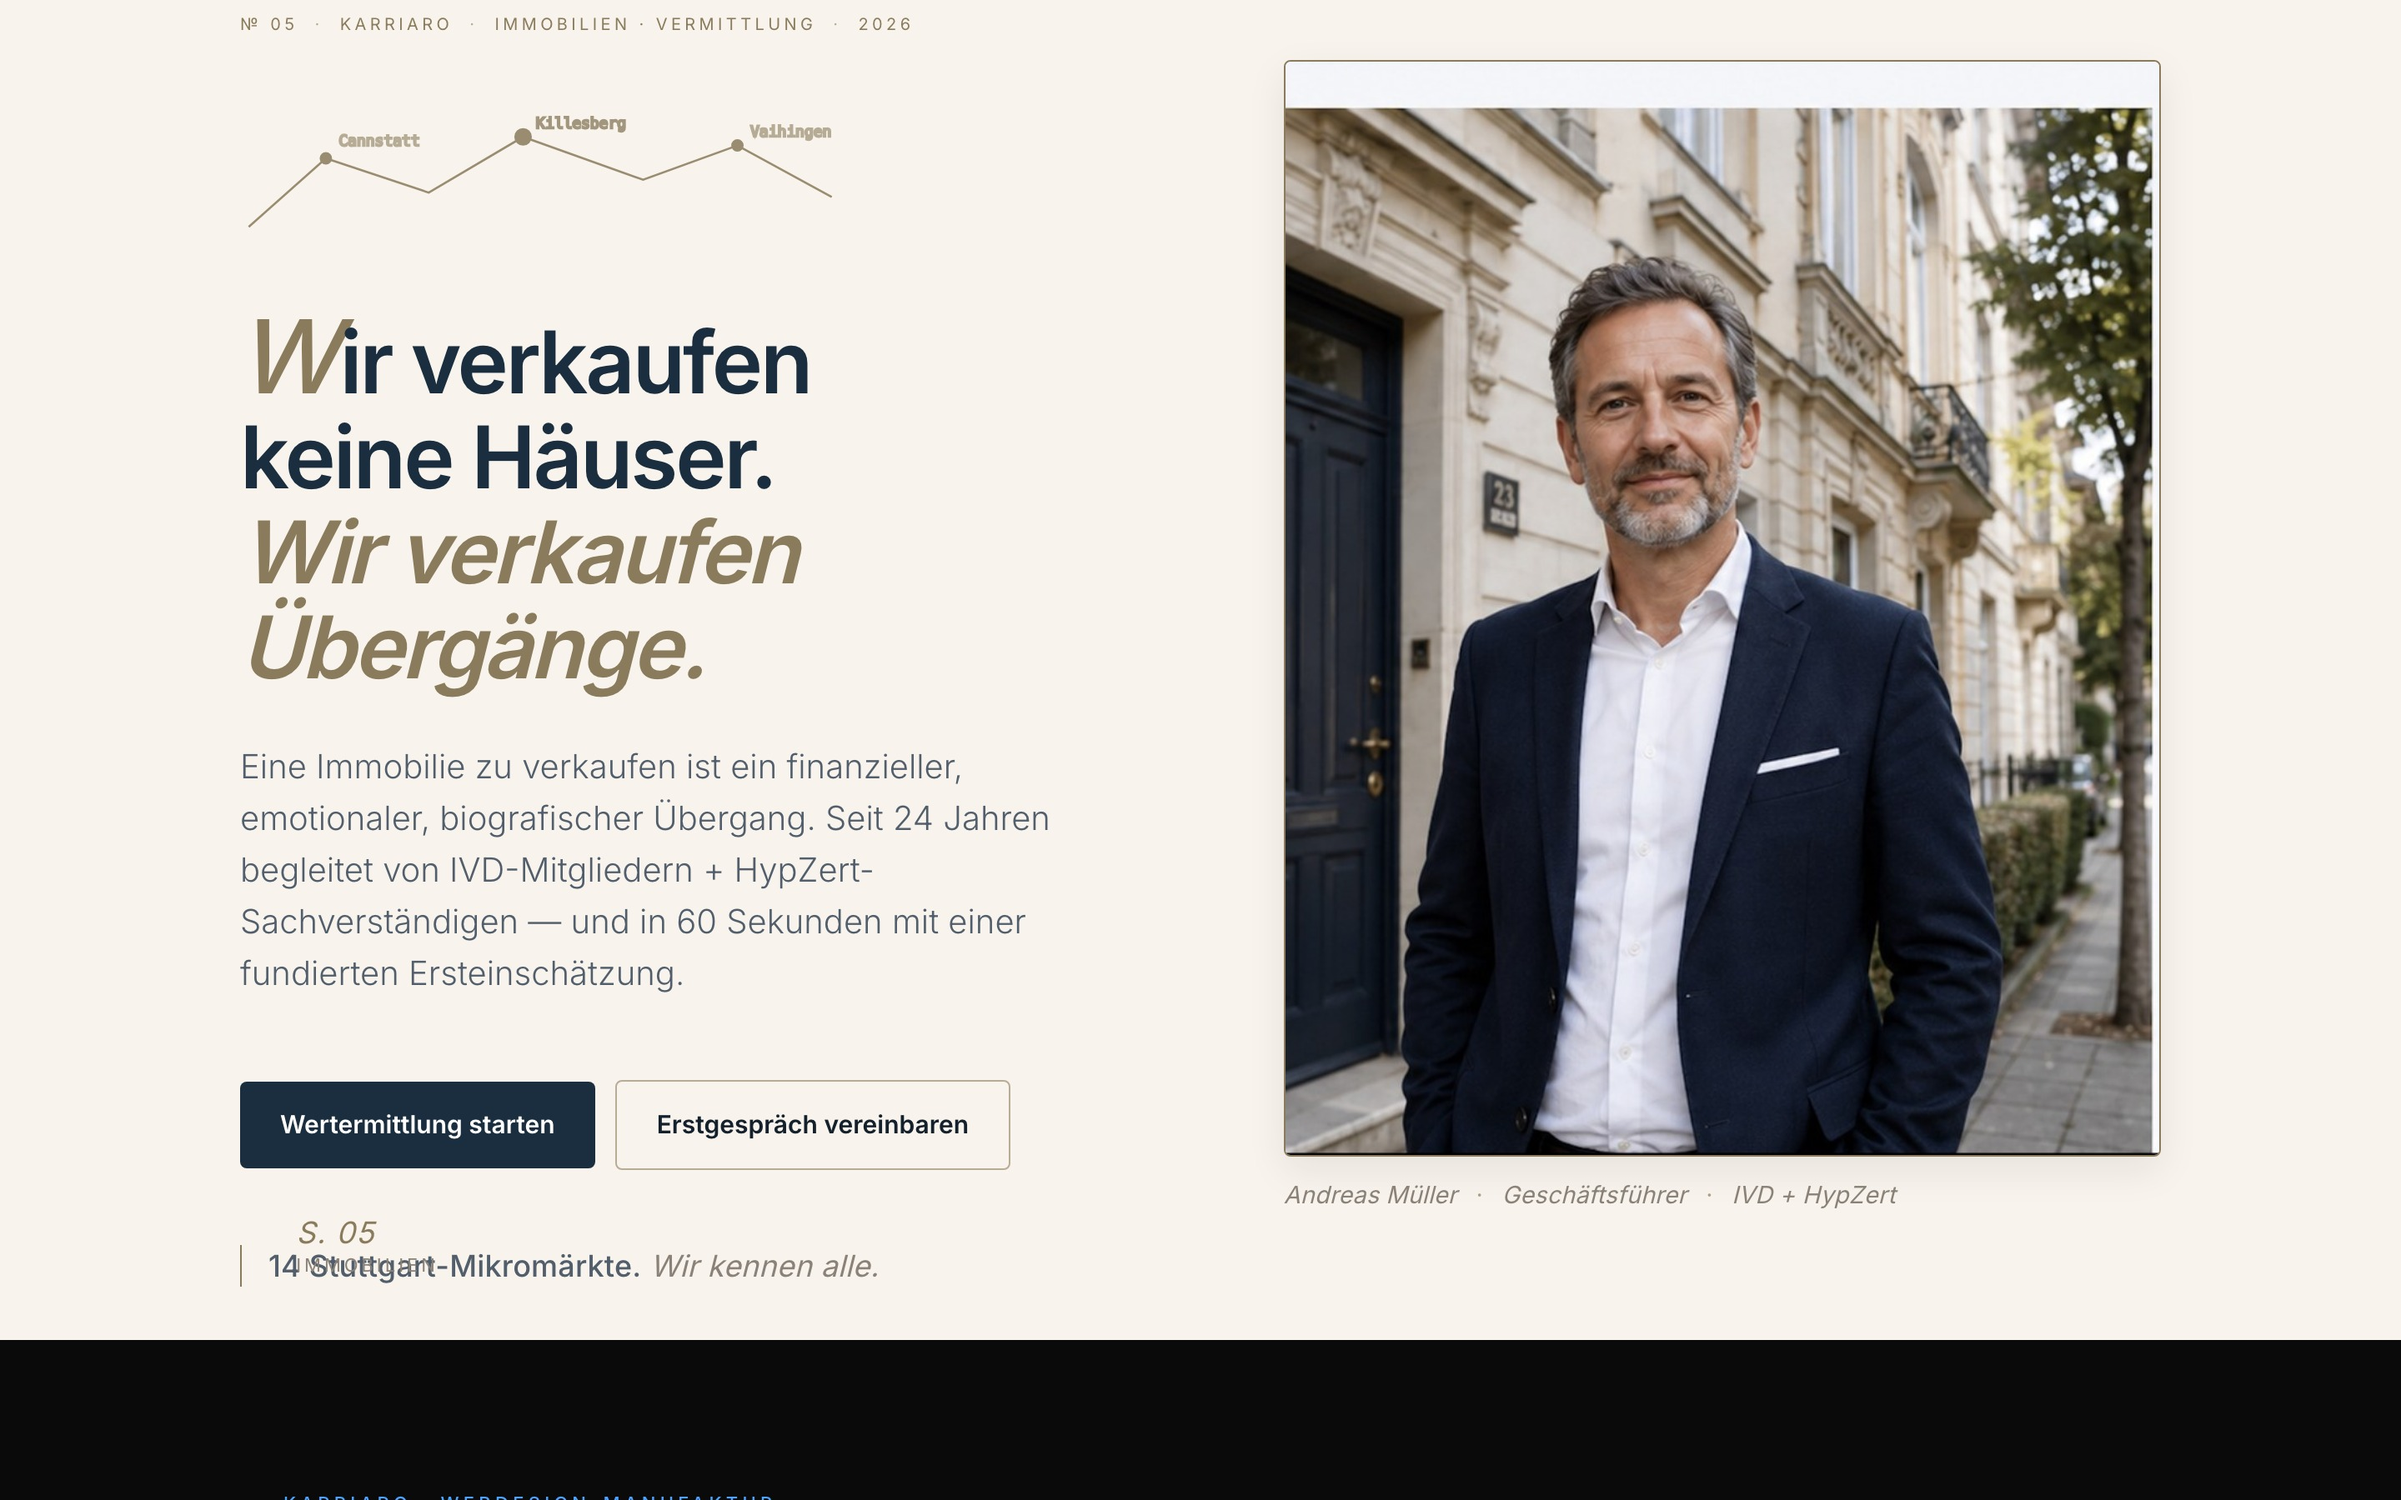
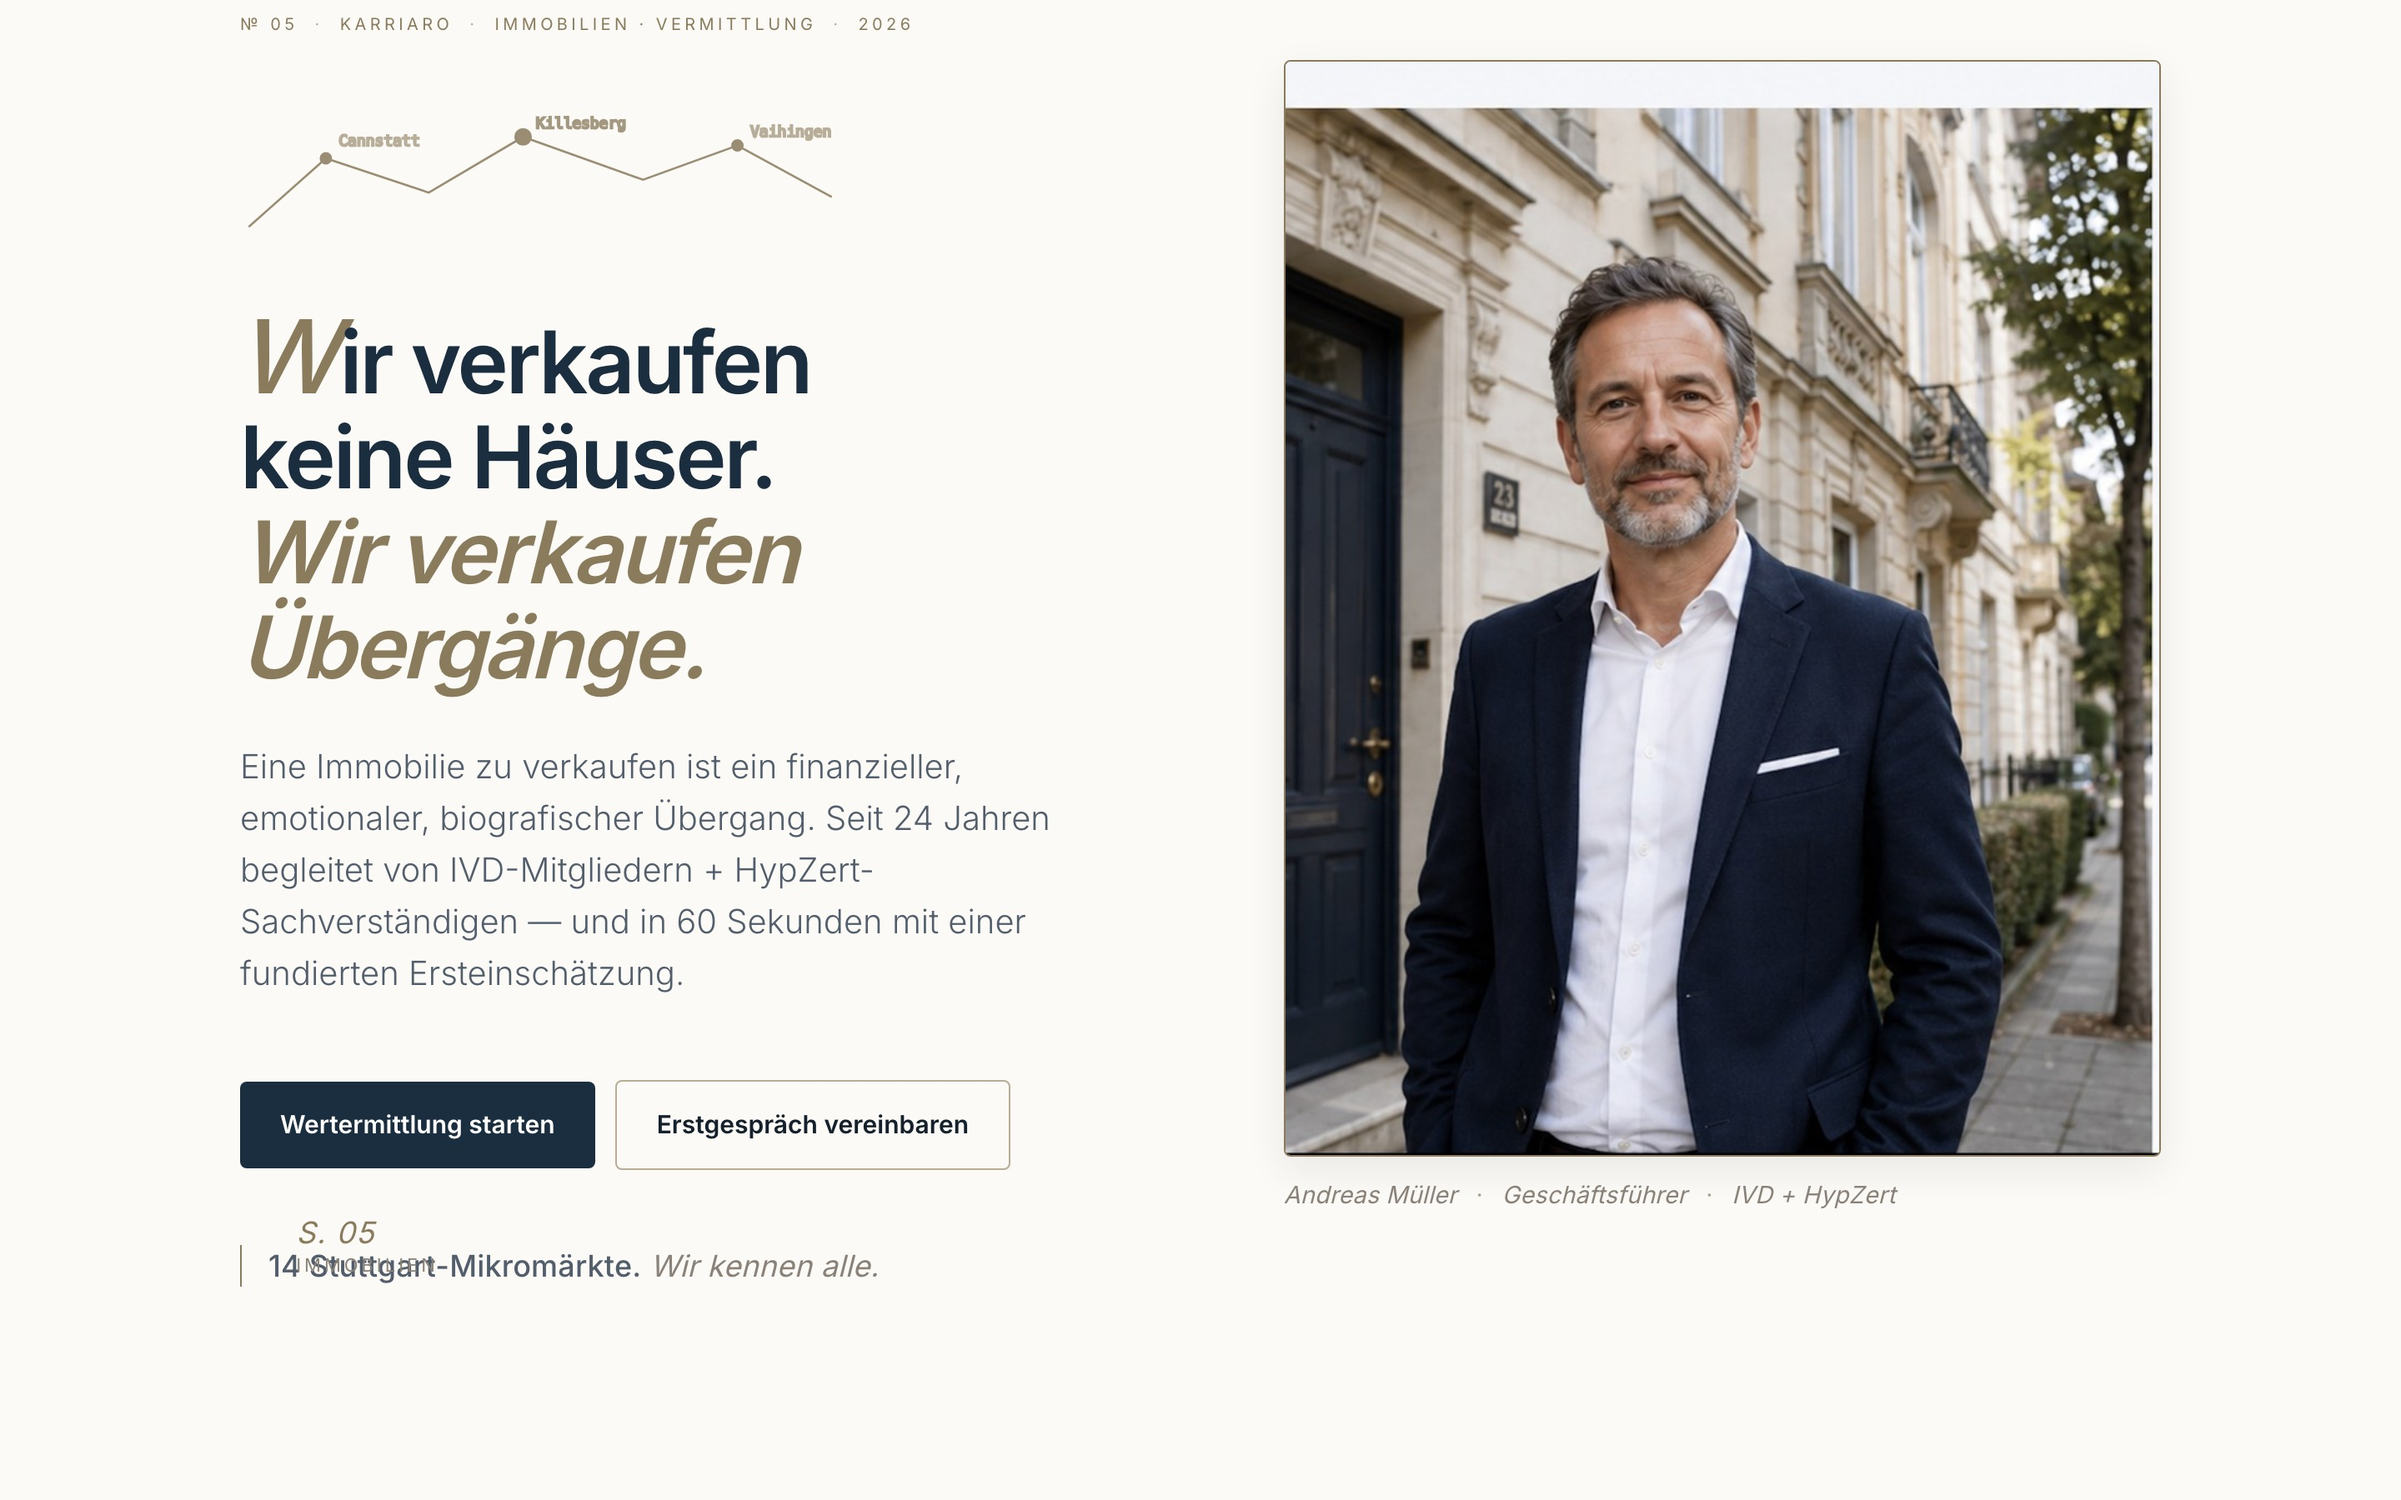
Sprint 137 hotfix: screenshot-mode hidet kr-footer-card + body cream-BG
User-Report nach Sprint 137 Deploy: "Bild des Maklers nicht ganz im Rahmen,
schwarzer Balken unten" — sichtbar im 1920×1200 Desktop-Viewport.

Root-Cause:
- screenshot-mockups-fold.mjs captures 1440×900 viewport-clip
- .hero auf stadtmakler-portfolio ist nur 804 px tall (variable pro
  Portfolio, 700-900 typically)
- Im 96-px-Gap (804-900) wird SECTION.kr-footer-card sichtbar mit
  background: rgb(10, 10, 10) (fast schwarz)
- screenshot-mode CSS hidet nav/kr-strip/m-sticky-cta-bar/main>:not(.hero)
  aber NICHT .kr-footer-card

Fix (src/css/mobile-overrides.css screenshot-mode-Block):
- .screenshot-mode .kr-footer-card { display: none }
- .screenshot-mode footer { display: none }
- .screenshot-mode { background: var(--color-cream) }
- .screenshot-mode body { background: var(--color-cream) }
→ Im 96-px-Gap zeigt sich jetzt cream-BG statt schwarz

Re-Capture: node scripts/screenshot-mockups-fold.mjs
- 8 *-mockup-fold.jpg neu generiert (gleiche Filename, gleiche Aspect 16:10)
- Sichtbarer Bug-Fix: kein schwarzer Balken mehr, cream-BG durchgehend,
  Andreas-Müller-Portrait komplett im Frame

mobile-overrides.css Cache-Bust bleibt v=134 (kein neuer Sprint).

Mobile-Pages re-built (36 Pages) für die mobile-overrides.css-Änderung.

Verifikation:
- src/images/immobilien-stadtmakler-mockup-fold.jpg zeigt vollen
  Stadtmakler-Hero in cream
- Visual-Check Desktop 1440×1080: Browser-Frame ohne schwarzen Balken,
  Portrait Andreas Müller komplett sichtbar, alle Demo-Hero-Elemente da
[…]

Changed region(s): [[0.0, 0.8711, 1.0, 1.0]]

diff --git a/src/m/index.html b/src/m/index.html
@@ -1021,6 +1021,10 @@
             min-height: 640px;
             max-height: 1080px;
             display: flex;
+            /* Sprint 137 — zurück auf center: mit Above-Fold-Mockups (16:10,
+               img 715×447 + chrome 28 + caption ~226 = ~700 total) passt der
+               Mockup-Block locker in die Hero-Section. Vertikale Zentrierung
+               wirkt visuell ausgewogen. */
             align-items: center;
             padding: 128px 0 64px;
             overflow: hidden;
@@ -1108,6 +1112,9 @@
             box-shadow: 0 30px 70px rgba(0,0,0,0.14), 0 6px 16px rgba(0,0,0,0.05);
         }
         .browser-screen-large {
+            /* Sprint 137 — Above-Fold-Source-Mockups (1440×900, 16:10 aspect)
+               via screenshot-mockups-fold.mjs Viewport-Clip-Capture. Container
+               passt exakt zum Source → kein Crop, kein Fade nötig. */
             aspect-ratio: 16/10;
             width: 100%;
             max-width: 100%;
@@ -3095,7 +3102,7 @@
                             <span class="dot dot-g"></span>
                             <span class="browser-url" id="hero-mockup-url">stadtmakler-stuttgart.de</span>
                         </div>
-                        <img class="browser-screen-large" id="hero-mockup-img" src="/images/immobilien-stadtmakler-mockup.jpg?v=86" alt="Vorschau-Bild für Stadtmakler Stuttgart — Immobilien" loading="eager" width="1586" height="992">
+                        <img class="browser-screen-large" id="hero-mockup-img" src="/images/immobilien-stadtmakler-mockup-fold.jpg?v=137" alt="Vorschau-Bild für Stadtmakler Stuttgart — Immobilien" loading="eager" width="1440" height="900">
                     </div>
                     <div class="mockup-caption">
                         <span class="mockup-label" id="hero-mockup-label">Stadtmakler Stuttgart · Immobilien-Werkzeuge</span>
@@ -5408,7 +5415,7 @@
 
             var data = {
                 praxis: {
-                    src: '/images/praxis-weber-mockup.jpg?v=86',
+                    src: '/images/praxis-weber-mockup-fold.jpg?v=137',
                     alt: 'Vorschau-Bild für Praxis Dr. Weber — Hausarztpraxis mit Online-Terminbuchung',
                     url: 'praxis-dr-weber.de',
                     label: 'Praxis Dr. Weber · Praxis-Werkzeuge',
@@ -5418,7 +5425,7 @@
                     href: '/portfolio/praxis-weber.html'
                 },
                 handwerk: {
-                    src: '/images/handwerk-mueller-mockup.jpg?v=86',
+                    src: '/images/handwerk-mueller-mockup-fold.jpg?v=137',
                     alt: 'Vorschau-Bild für Meisterbetrieb Müller — Sanitär & Heizung',
                     url: 'meisterbetrieb-mueller.de',
                     label: 'Meisterbetrieb Müller · Handwerker-Werkzeuge',
@@ -5428,7 +5435,7 @@
                     href: '/portfolio/meisterbetrieb-mueller.html'
                 },
                 gastro: {
-                    src: '/images/gastro-hirsch-mockup.jpg?v=86',
+                    src: '/images/gastro-hirsch-mockup-fold.jpg?v=137',
                     alt: 'Vorschau-Bild für Goldener Hirsch — Restaurant',
                     url: 'goldener-hirsch.de',
                     label: 'Goldener Hirsch · Gastro-Werkzeuge',
@@ -5438,7 +5445,7 @@
                     href: '/portfolio/restaurant-template.html'
                 },
                 logistik: {
-                    src: '/images/logistik-schwaben-mockup.jpg?v=86',
+                    src: '/images/logistik-schwaben-mockup-fold.jpg?v=137',
                     alt: 'Vorschau-Bild für Schwaben Logistik — Spedition',
                     url: 'schwaben-logistik.de',
                     label: 'Schwaben Logistik · Spedition-Werkzeuge',
@@ -5448,7 +5455,7 @@
                     href: '/portfolio/spedition-schwaben.html'
                 },
                 friseur: {
-                    src: '/images/friseur-mueller-mockup.jpg?v=86',
+                    src: '/images/friseur-mueller-mockup-fold.jpg?v=137',
                     alt: 'Vorschau-Bild für Salon Müller — Friseur',
                     url: 'salon-mueller.de',
                     label: 'Salon Müller · Friseur-Werkzeuge',
@@ -5458,7 +5465,7 @@
                     href: '/portfolio/friseur-salon.html'
                 },
                 dachdecker: {
-                    src: '/images/dachdecker-meister-mockup.jpg?v=86',
+                    src: '/images/dachdecker-meister-mockup-fold.jpg?v=137',
                     alt: 'Vorschau-Bild für Dachdecker-Meister Berger',
                     url: 'dachdecker-berger.de',
                     label: 'Dachdecker Berger · Dachdecker-Werkzeuge',
@@ -5468,7 +5475,7 @@
                     href: '/portfolio/dachdecker-meisterbetrieb.html'
                 },
                 immobilien: {
-                    src: '/images/immobilien-stadtmakler-mockup.jpg?v=86',
+                    src: '/images/immobilien-stadtmakler-mockup-fold.jpg?v=137',
                     alt: 'Vorschau-Bild für Stadtmakler Stuttgart — Immobilien',
                     url: 'stadtmakler-stuttgart.de',
                     label: 'Stadtmakler Stuttgart · Immobilien-Werkzeuge',
@@ -5478,7 +5485,7 @@
                     href: '/portfolio/immobilien-makler.html'
                 },
                 coaching: {
-                    src: '/images/coaching-lehmann-mockup.jpg?v=86',
+                    src: '/images/coaching-lehmann-mockup-fold.jpg?v=137',
                     alt: 'Vorschau-Bild für Business-Coach Sarah Lehmann — Coaching & Beratung',
                     url: 'coach-lehmann.de',
                     label: 'Coach Lehmann · Coaching-Werkzeuge',

diff --git a/src/css/mobile-overrides.css b/src/css/mobile-overrides.css
@@ -904,16 +904,26 @@
         0 2px 8px rgba(20, 32, 43, 0.10),
         0 12px 28px -10px rgba(20, 32, 43, 0.22);
 }
-/* Sprint 121/124/125 — Screenshot-Mode für Mockup-Capture: blendet UI-Chrome aus.
-   Sprint 125 erweitert: alles unterhalb der Hero-Section wird ausgeblendet,
-   damit das Capture wirklich nur den Hero zeigt (keine Folge-Sections). */
+/* Sprint 121/124/125/137 — Screenshot-Mode für Mockup-Capture: blendet UI-Chrome
+   und Folge-Sektionen aus. Sprint 137 erweitert um .kr-footer-card + footer
+   (dark BG visible in 1440×900-clip wenn .hero <900 px tall, Sprint-137-Bug). */
 .screenshot-mode .kr-strip,
 .screenshot-mode .topbar,
 .screenshot-mode header,
 .screenshot-mode nav.nav,
 .screenshot-mode .m-sticky-cta-bar,
-.screenshot-mode main > *:not(.hero) {
+.screenshot-mode main > *:not(.hero),
+.screenshot-mode .kr-footer-card,
+.screenshot-mode footer {
     display: none !important;
+}
+/* Sprint 137 — Body-BG cream-soft im screenshot-mode (Fallback falls
+   .hero kürzer ist als capture-clip-height, statt black-Default). */
+.screenshot-mode {
+    background: var(--color-cream, #F8F4ED) !important;
+}
+.screenshot-mode body {
+    background: var(--color-cream, #F8F4ED) !important;
 }
 /* ── Meta + Title unter dem Frame ── */
 .m-demo-swiper-meta {
